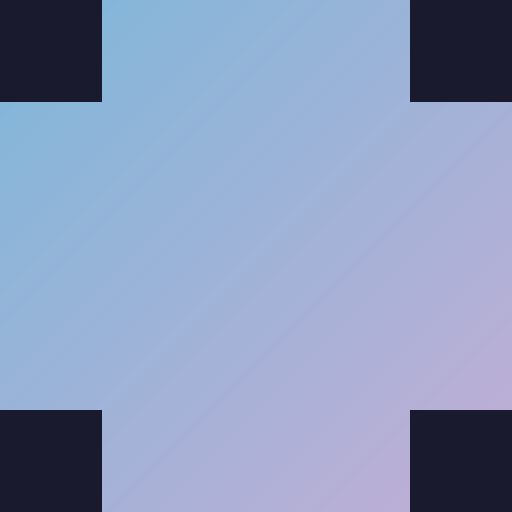
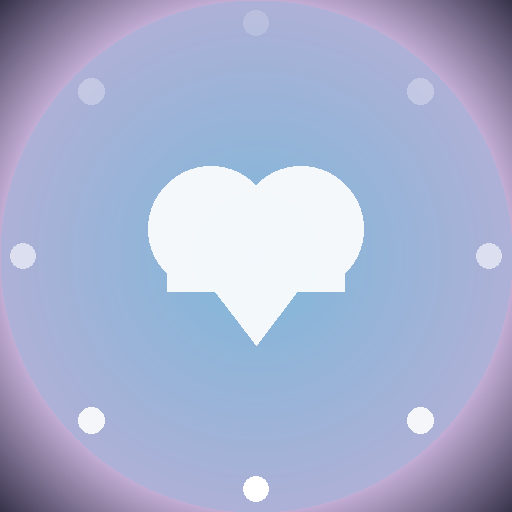
Aggiunte icone professionali per l'app
- Creato design moderno con cuore bianco su gradiente blu-viola
- Colori coordinati con il tema dell'app (#7eb8da, #c3aed6)
- Simbolismo: cuore per supporto emotivo, punti decorativi per pensieri/benessere
- Icone ottimizzate per PWA (192x192 e 512x512)
- Incluso script Python per future modifiche

diff --git a/create_icons.py b/create_icons.py
@@ -1,0 +1,125 @@
+#!/usr/bin/env python3
+"""
+Script per creare icone per l'app "Come Stai? - Supporto ADHD"
+"""
+from PIL import Image, ImageDraw
+import math
+
+def create_icon(size):
+    """Crea un'icona con design moderno per app ADHD"""
+    # Colori dell'app
+    bg_deep = (26, 26, 46)  # #1a1a2e
+    accent_calm = (126, 184, 218)  # #7eb8da
+    accent_soft = (195, 174, 214)  # #c3aed6
+    accent_warm = (232, 168, 124)  # #e8a87c
+
+    # Crea immagine con gradiente
+    img = Image.new('RGBA', (size, size), (0, 0, 0, 0))
+    draw = ImageDraw.Draw(img)
+
+    # Sfondo con gradiente radiale dal centro
+    for y in range(size):
+        for x in range(size):
+            # Distanza dal centro (0 al centro, 1 agli angoli)
+            dx = (x - size/2) / (size/2)
+            dy = (y - size/2) / (size/2)
+            distance = math.sqrt(dx*dx + dy*dy)
+
+            # Gradiente da blu a viola con sfondo scuro
+            if distance < 1.0:
+                # Interpolazione tra accent_calm e accent_soft
+                t = distance * 0.7  # Riduce il range per mantenere colori più vibranti
+                r = int(accent_calm[0] * (1-t) + accent_soft[0] * t)
+                g = int(accent_calm[1] * (1-t) + accent_soft[1] * t)
+                b = int(accent_calm[2] * (1-t) + accent_soft[2] * t)
+            else:
+                # Sfondo scuro agli angoli
+                fade = min((distance - 1.0) * 2, 1.0)
+                r = int(accent_soft[0] * (1-fade) + bg_deep[0] * fade)
+                g = int(accent_soft[1] * (1-fade) + bg_deep[1] * fade)
+                b = int(accent_soft[2] * (1-fade) + bg_deep[2] * fade)
+
+            img.putpixel((x, y), (r, g, b, 255))
+
+    # Crea overlay per il simbolo
+    overlay = Image.new('RGBA', (size, size), (0, 0, 0, 0))
+    draw_overlay = ImageDraw.Draw(overlay)
+
+    # Disegna un cuore stilizzato al centro
+    center_x, center_y = size // 2, size // 2
+    heart_size = size * 0.35
+
+    # Cuore con forma semplificata usando cerchi e triangolo
+    # Due cerchi in alto
+    circle_radius = heart_size * 0.35
+    left_circle_x = center_x - heart_size * 0.25
+    right_circle_x = center_x + heart_size * 0.25
+    circle_y = center_y - heart_size * 0.15
+
+    # Colore bianco con leggera trasparenza
+    heart_color = (255, 255, 255, 230)
+
+    # Disegna i cerchi del cuore
+    draw_overlay.ellipse(
+        [left_circle_x - circle_radius, circle_y - circle_radius,
+         left_circle_x + circle_radius, circle_y + circle_radius],
+        fill=heart_color
+    )
+    draw_overlay.ellipse(
+        [right_circle_x - circle_radius, circle_y - circle_radius,
+         right_circle_x + circle_radius, circle_y + circle_radius],
+        fill=heart_color
+    )
+
+    # Disegna la parte inferiore del cuore (triangolo)
+    bottom_point = (center_x, center_y + heart_size * 0.5)
+    left_point = (left_circle_x - circle_radius * 0.7, circle_y)
+    right_point = (right_circle_x + circle_radius * 0.7, circle_y)
+
+    draw_overlay.polygon(
+        [left_point, right_point, bottom_point],
+        fill=heart_color
+    )
+
+    # Rettangolo per collegare i cerchi al triangolo
+    draw_overlay.rectangle(
+        [left_circle_x - circle_radius * 0.7, circle_y - circle_radius * 0.3,
+         right_circle_x + circle_radius * 0.7, circle_y + circle_radius],
+        fill=heart_color
+    )
+
+    # Aggiungi piccoli cerchi decorativi attorno (rappresentano pensieri/supporto)
+    dot_radius = size * 0.025
+    num_dots = 8
+    orbit_radius = heart_size * 1.3
+
+    for i in range(num_dots):
+        angle = (i / num_dots) * 2 * math.pi
+        dot_x = center_x + orbit_radius * math.cos(angle)
+        dot_y = center_y + orbit_radius * math.sin(angle)
+
+        # Punti con opacità variabile
+        opacity = int(150 + 105 * math.sin(angle))
+        dot_color = (255, 255, 255, opacity)
+
+        draw_overlay.ellipse(
+            [dot_x - dot_radius, dot_y - dot_radius,
+             dot_x + dot_radius, dot_y + dot_radius],
+            fill=dot_color
+        )
+
+    # Combina il gradiente con l'overlay
+    img = Image.alpha_composite(img, overlay)
+
+    return img
+
+# Crea entrambe le dimensioni
+print("Creazione icon-192.png...")
+icon_192 = create_icon(192)
+icon_192.save('/home/user/adhd-toolkit/icon-192.png', 'PNG')
+
+print("Creazione icon-512.png...")
+icon_512 = create_icon(512)
+icon_512.save('/home/user/adhd-toolkit/icon-512.png', 'PNG')
+
+print("✓ Icone create con successo!")
